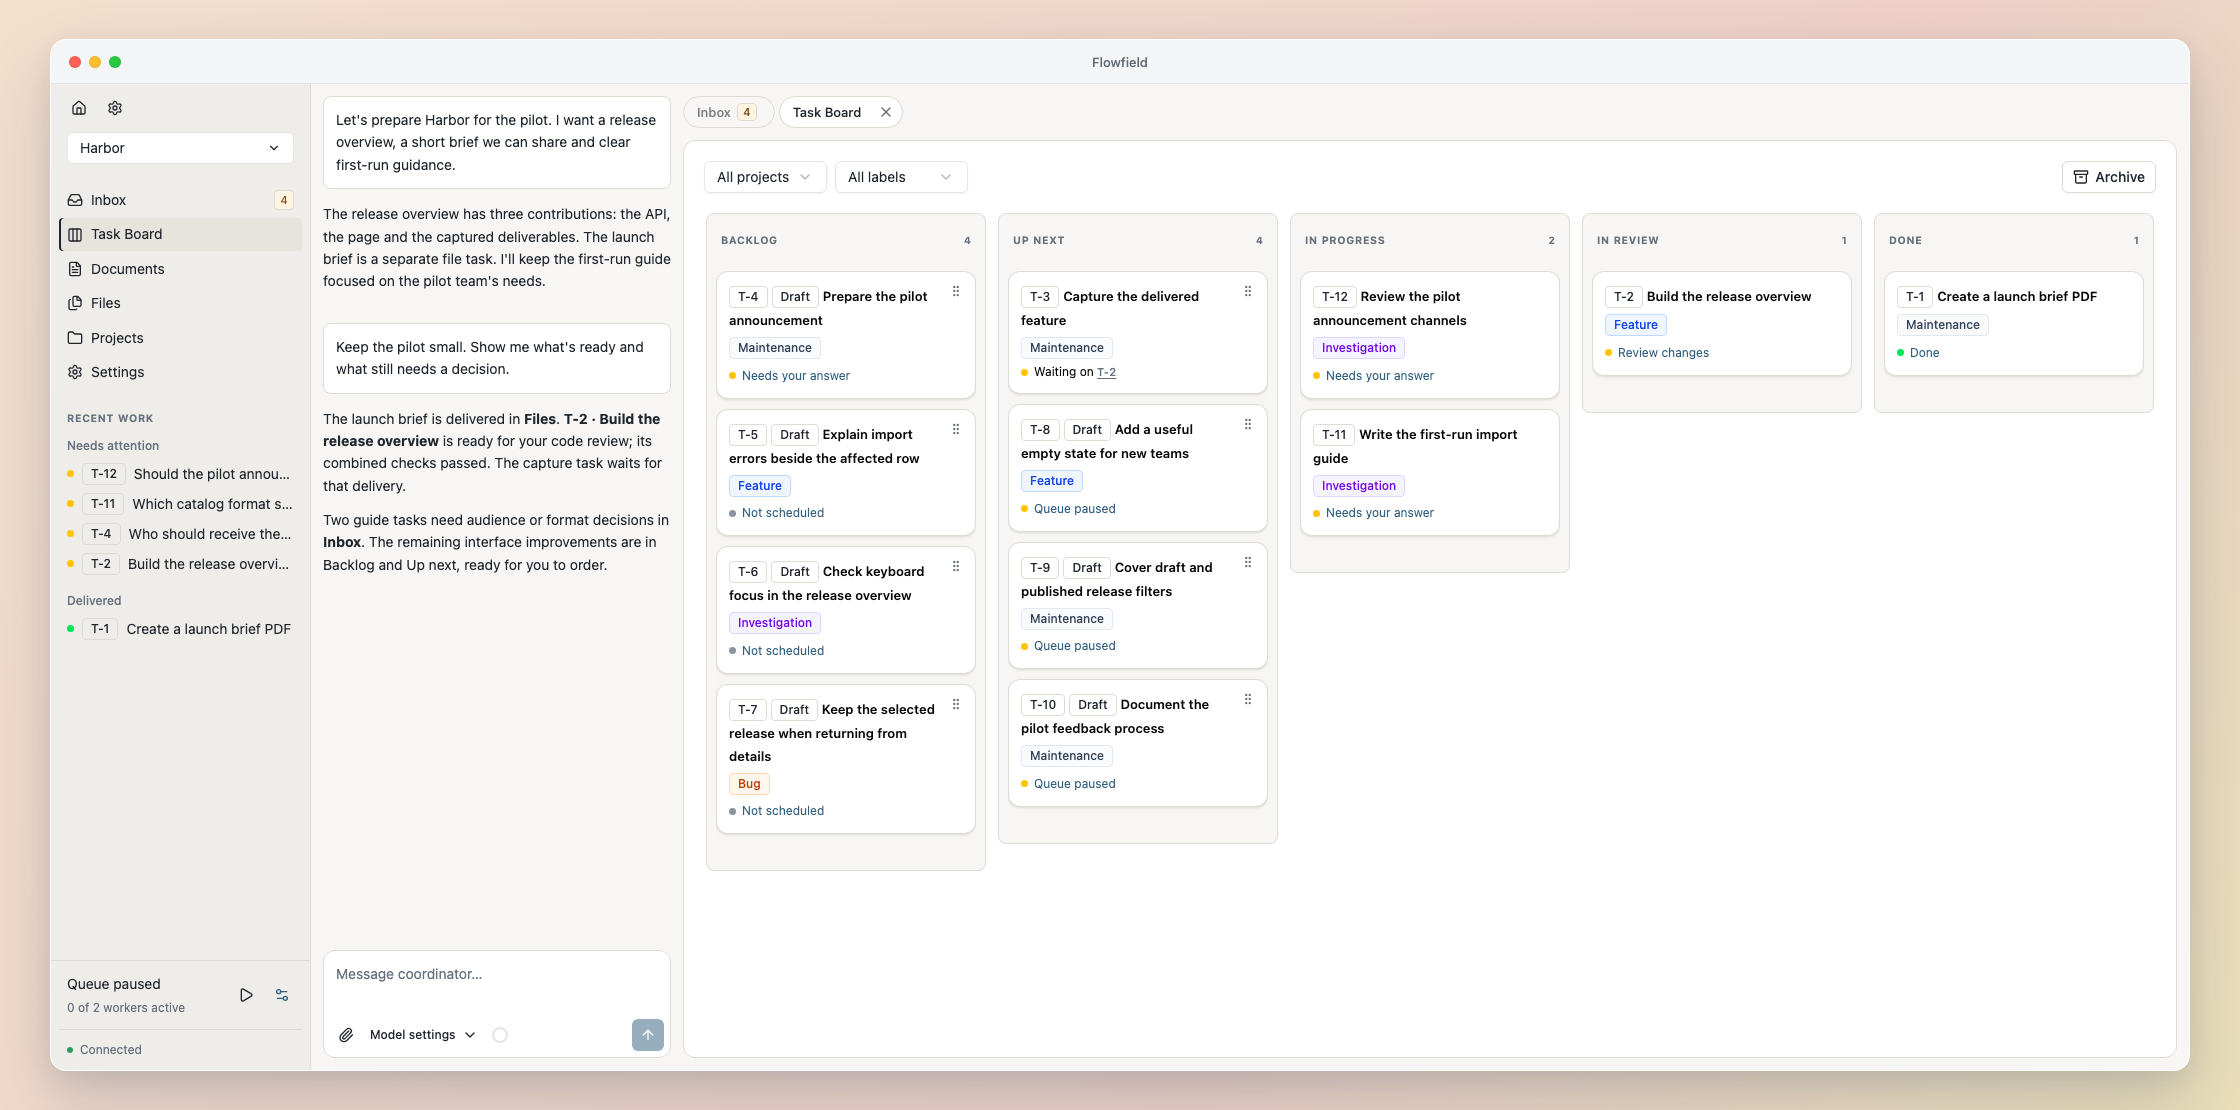
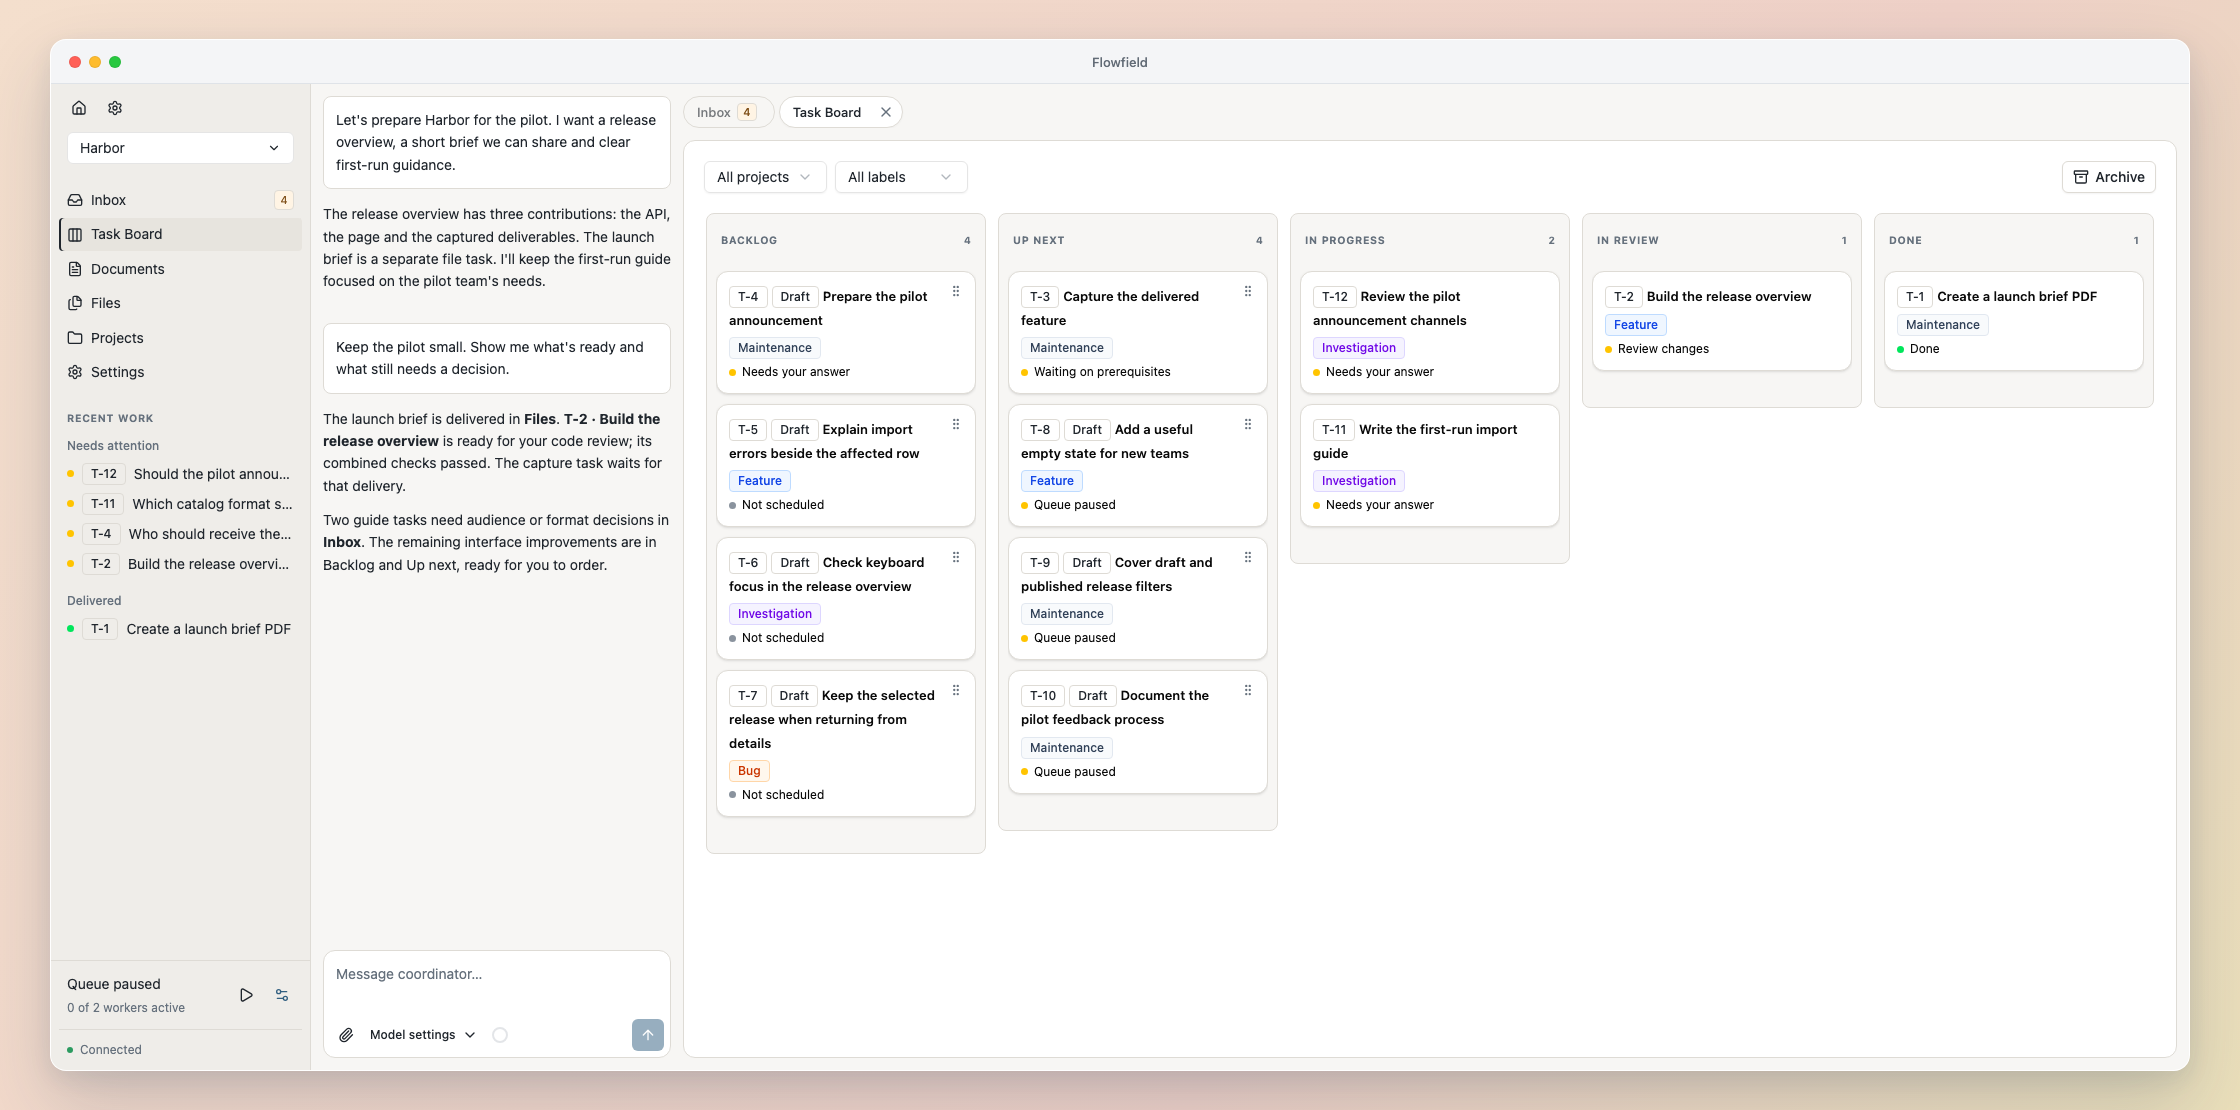
Focus platform coverage and prepare 0.9.1

diff --git a/tests/README.md b/tests/README.md
@@ -1,0 +1,14 @@
+# Test coverage by platform
+
+The full Python suite runs on Linux x64. Every test remains in that gate; no production behavior is excluded from CI. Browser journeys run once across two disjoint Linux shards, with focused Firefox recovery coverage. Original wheel, source and uv-tool installs run on Linux x64, Linux ARM64 and Apple Silicon.
+
+Additional platforms repeat tests whose evidence depends on the host, using pytest's native argument files:
+
+- `pytest @tests/native-platform.txt` exercises real Codex/Pi subprocess transports, the compiled Claude runtime, native shutdown, cancellation races, child process groups, host tools, independent ports and borrowed-service preservation. Linux ARM64 runs this selection; macOS includes it too. Pure protocol validation, labels, model choices and error classification stay in the full Linux suite.
+- `pytest @tests/macos-platform.txt` adds Git checkout delivery and worktrees, executable modes and literal paths, SQLite ownership/upgrade/recovery, symlink-safe file capture/deletion, native service restart, shell quoting and inspection launchers, parallel execution and exact delivery. Pure task/document/review state machines, projections, API schemas and formatting are not repeated merely because their fixtures create temporary repositories.
+
+Keep these selections tied to actual platform boundaries when adding or changing tests. A renamed or missing node fails collection; do not silently filter unavailable tests. Whole modules are selected only when every case exercises the retained boundary. Run either selection locally with `--collect-only -q` to inspect the exact cases, including parameter variants.
+
+The JavaScript cleanup state-machine tests use a simulated child process and run once on Linux. Actual compiled runtime/process cleanup remains covered on every supported platform. Browser fixture lifecycle checks run once, before shard 1, rather than twice on identical Linux hosts. Documentation validation runs in the quality/build job, without a second identical workflow. A failing shard or quality check still fails the aggregate gate.
+
+Tests use isolated state and scripted peers, never live model calls. Platform selection does not replace artifact installation, source freshness or exact approval/delivery checks.

diff --git a/README.md b/README.md
@@ -10,7 +10,6 @@
 <p align="center">
   <a href="https://pypi.org/project/flowfield-core/"><img src="https://img.shields.io/pypi/v/flowfield-core?logo=pypi&amp;logoColor=white&amp;color=2563eb" alt="PyPI version"></a>
   <a href="https://github.com/flowfield-sh/flowfield-core/actions/workflows/tests.yml"><img src="https://img.shields.io/github/actions/workflow/status/flowfield-sh/flowfield-core/tests.yml?branch=main&amp;label=tests" alt="Tests"></a>
-  <a href="https://github.com/flowfield-sh/flowfield-core/actions/workflows/docs.yml"><img src="https://img.shields.io/github/actions/workflow/status/flowfield-sh/flowfield-core/docs.yml?branch=main&amp;label=docs" alt="Documentation"></a>
 </p>
 
 ![The Coordinator beside task priorities, review and delivered outcomes](docs/images/board-hero.png)

diff --git a/CHANGELOG.md b/CHANGELOG.md
@@ -1,5 +1,15 @@
 # Changelog
 
+## 0.9.1
+
+### Bug fixes
+
+- Keep task cards focused on one meaningful state. Updated documents no longer make unscheduled Backlog tasks appear to have a paused review. Remove repeated explanations and prerequisite lists from cards while retaining questions, failures and detailed recovery inside tasks.
+
+### Upgrade
+
+Stop Flowfield, run `uv tool upgrade flowfield-core`, then start it with `flowfield serve`. See [updating Flowfield](https://docs.flowfield.sh/installation#update) for other installation methods.
+
 ## 0.9.0
 
 ### Features
